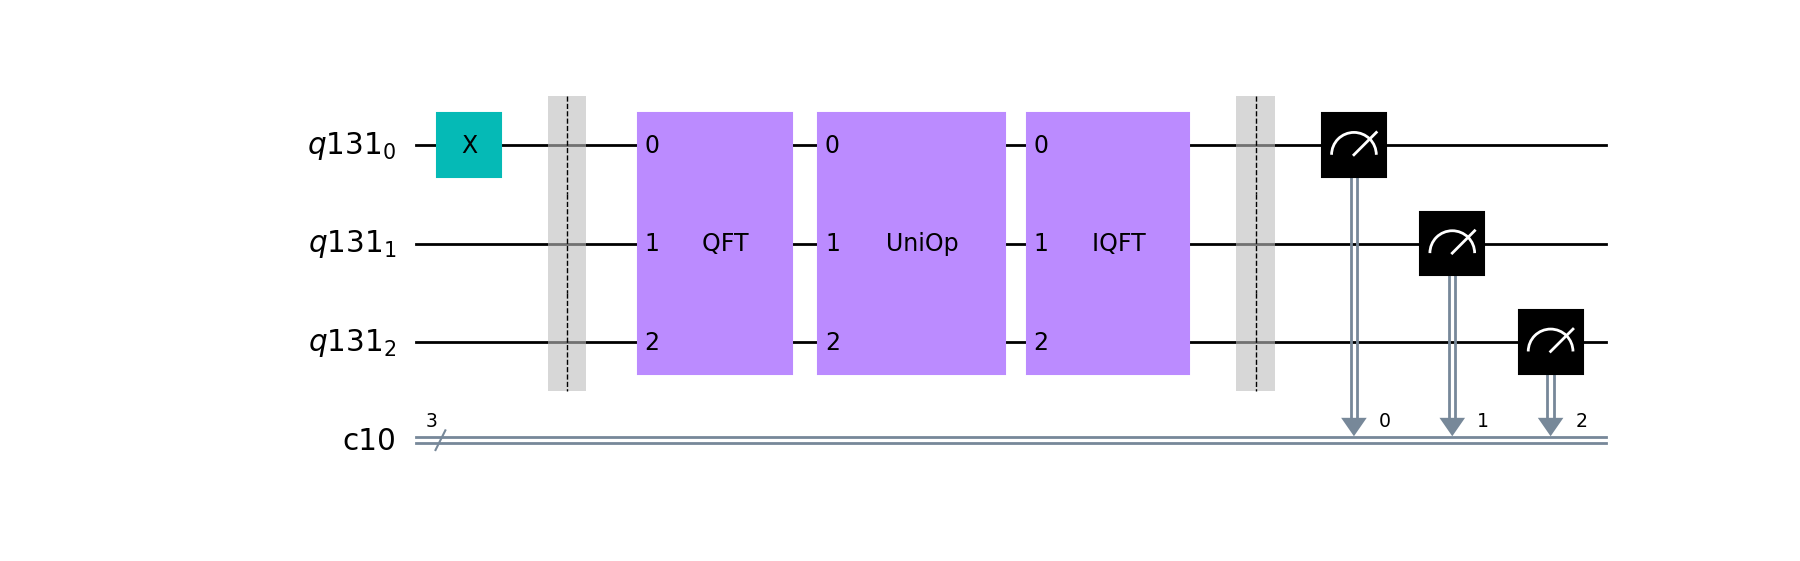
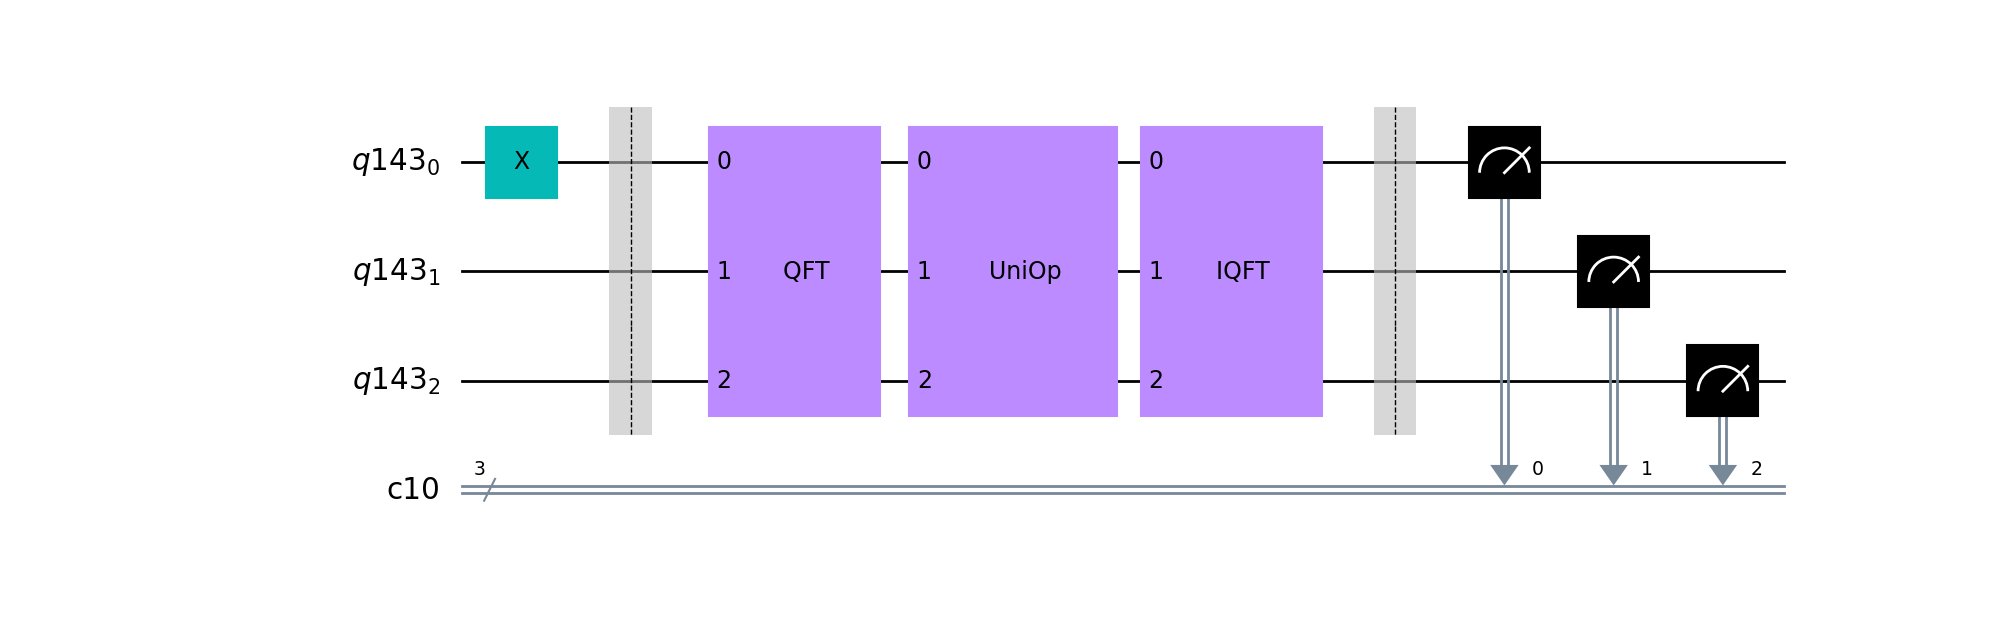
Update

diff --git a/Coding/Qiskit/ContQuantumWalk/runWalk.py b/Coding/Qiskit/ContQuantumWalk/runWalk.py
@@ -31,7 +31,8 @@ from qiskit.providers.aer.noise import NoiseModel
 from qiskit.visualization import( plot_histogram,
                         plot_state_city,
                         plot_gate_map, 
-                        plot_circuit_layout)
+                        plot_circuit_layout,
+                        circuit_drawer)
 from qiskit.circuit.library import QFT
 from math import (log,ceil)
 from scipy.fft import fft, ifft
@@ -114,6 +115,20 @@ def contCirc(N,diagUniOp,backend,method,t):
         circ=transpile(circ)
     return circ
 
+def contCirc2(N,diagUniOp,backend,method,t):
+    qreg = QuantumRegister(N)
+    creg = ClassicalRegister(N)
+    circ = QuantumCircuit(qreg,creg)
+    if t == 0: 
+        circ.x(qreg[0])
+        circ.measure(qreg,creg)
+        circ = transpile(circ)
+        return circ 
+    else:
+        circ.append(diagUniOp,range(N))
+        circ=transpile(circ)
+    return circ
+
 def multDiagUniOp(N,NCirc,gamma,adjacency,time,backend,method):
     unitaryCircList = []
     for t in time:
@@ -137,6 +152,19 @@ def multContCirc(N,unitaryList,time,backend,methods):
         circList.append(circ)
     return circList
 
+def multContCirc2(N,unitaryList,time,backend,methods):
+    circList = []
+    circListAux = []
+    qreg = QuantumRegister(N)
+    qsub = QuantumRegister(1)
+    creg = ClassicalRegister(N)
+    for t,diagU0 in zip(time,unitaryList):
+        circ = QuantumCircuit(qreg,creg)
+        circ =  contCirc2(N,diagU0,backend,method,t)
+        circ = transpile(circ,optimization_level=3,backend=backend, layout_method=method)
+        circList.append(circ)
+    return circList
+
 def drawCirc(N,diagU,time,style):
     qreg = QuantumRegister(N)
     creg = ClassicalRegister(N)
@@ -151,12 +179,26 @@ def drawCirc(N,diagU,time,style):
     fig = circ.draw(output='mpl',style=style)
     return fig 
 
+def drawCirc2(N,diagU,time,style):
+    qreg = QuantumRegister(N)
+    creg = ClassicalRegister(N)
+    circ = QuantumCircuit(qreg,creg)
+    circ.x(qreg[0])
+    circ.barrier()
+    circ.append(QFT(N,do_swaps=False,approximation_degree=0,inverse=False,name='    QFT    '),range(N))
+    circ.append(diagU,range(N))
+    circ.append(QFT(N,do_swaps=False,approximation_degree=0,inverse=True,name='    IQFT    '),range(N))
+    circ.barrier()
+    circ.measure(qreg,creg)
+    #fig = circ.draw(output='mpl',style=style)
+    return circ 
+
 def drawQftCirc(N,style):
     qreg = QuantumRegister(N)
     creg = ClassicalRegister(N)
     circ = QuantumCircuit(qreg,creg)
     circ = QFT(N,do_swaps=False,approximation_degree=0,inverse=False,name='    QFT    ')
-    circ = transpile(circ, basis_gates=['cx','u3','cu3'])
+    circ = transpile(circ, basis_gates=['cp','h','cx','rz'])
     fig = circ.draw(output='mpl',style=style)
     return fig 
 
@@ -164,9 +206,10 @@ def drawDiagUni(N,diagU0,backend,method,style):
     qreg = QuantumRegister(N)
     creg = ClassicalRegister(N)
     circ = QuantumCircuit(qreg,name='    UniOp    ')
+    print(diagU0)
     circ.diagonal(diagU0,qreg) 
     #circ = transpile(circ,backend=backend,optimization_level=1)#,backend=backend,layout_method=method)#
-    circ = transpile(circ,basis_gates=['u3','cx'])
+    circ = transpile(circ,basis_gates=['cp','h','cx','rz'])
     #circ.decompose()
     fig = circ.draw(output='mpl',style=style)
     return fig
@@ -194,6 +237,40 @@ def saveContWalkFig2(N,steps,fig, filePath, defaultFileName):
     plt.clf()
     return specificFileName
 
+def countTimeGates(circList):
+    gateCountList = []
+    for circ in circList:
+        gateCount = circ.count_ops()
+        gateCountList.append(gateCount)
+        gateCount = 0
+    gateCountList.pop(0)
+    return gateCountList
+
+def plotCountTimeGates(gateCountList):
+    cxCount = []
+    rzCount = []
+    xCount = []
+    cpCount = []
+    for dictionary in gateCountList:
+        for gate,count in dictionary.items():
+            if gate == 'cx':
+                cxCount.append(count)
+            if gate == 'rz':
+                rzCount.append(count)
+            if gate == 'x':
+                xCount.append(count)
+            if gate == 'cp':
+                cpCount.append(count)
+
+    timeGateCount2 = np.arange(0,98,1).tolist()
+    plt.plot(timeGateCount2,cxCount,label='CNot number',color='r')
+    plt.plot(timeGateCount2,rzCount,label='RZ number',color='b')
+    plt.yticks(np.arange(0,11,1))
+    plt.xlabel("Time")
+    plt.ylabel("Number of gates")
+    plt.legend()
+   
+
 filePath = 'ContQuantumWalk/'
 circFilePath = 'ContQuantumWalk/Circuits/'
 circDiagFilePath = 'ContQuantumWalk/Circuits/'
@@ -202,7 +279,7 @@ defaultFileName = "ContQW_"
 circDefaultFileName = "circContQW_"
 circQftDefaultFileName = "circQft_"
 circDiagDefaultFileName = "circDiag_"
-style = {'figwidth':18,'fontsize':17,'subfontsize':14}
+style = {'figwidth':20,'fontsize':17,'subfontsize':14,'compress':True}
 styleQft = {'figwidth':15,'fontsize':17,'subfontsize':14}#, 'compress':True}
 styleDiag = {'figwidth':15,'fontsize':17,'subfontsize':14 }
 
@@ -270,19 +347,34 @@ counts = [{'000': 180, '001': 2176, '010': 95, '011': 155, '100': 65, '101': 192
 #g = plt.figure(1)
 #g.show()
 
+#distFig = plotMultipleQiskitIbmSim2(NCirc,multipleCircs,counts,time,shots,True,backend2)
+#saveContWalkFig2(NCirc,time,distFig,filePath,defaultFileName)
+
+#gateCountFileName = 'gateCount_N3'
+#timeGateCount = np.arange(0,99,1).tolist()
+#unitaryCircListGateCount = multDiagUniOp(N,NCirc,gamma,A,timeGateCount,backend,method)
+#multipleCircsGateCount = multContCirc(NCirc,unitaryCircListGateCount,timeGateCount,backend,method)
+#gateCountList = countTimeGates(multipleCircsGateCount)
+#plotCountTimeGates(gateCountList)
+#plt.savefig(r'/home/jaime/Programming/Jaime-Santos-Dissertation/Results/Qiskit/'+filePath+gateCountFileName)
+#   
 circFigN = 3
 circFigSteps = [1]
-circFig = drawCirc(NCirc,UCirc,t,style)
+circFig = drawCirc(NCirc,UCirc,1,style)
+#plt.show()
 saveContWalkFig(circFigN,circFigSteps,circFig,circFilePath,circDefaultFileName)
-
+#
 circQftN = 3
 circQftSteps = [1]
 circQftFig = drawQftCirc(circQftN,styleQft)
 saveContWalkFig(circQftN,circQftSteps,circQftFig,circQftFilePath,circQftDefaultFileName)
-
+##
 circDiagN = 3
-circDiagSteps = [1]
-circDiagFig = drawDiagUni(circDiagN,diagU0,backend,method,styleDiag)
+circDiagSteps = [3]
+circDiagGamma= 1/(2*np.sqrt(2))
+circU0 = unitary_ctqw(circDiagGamma, N, A, [],3)
+circDiagU0 = np.diag(circU0).tolist()
+circDiagFig = drawDiagUni(circDiagN,circDiagU0,backend,method,styleDiag)
 saveContWalkFig(circDiagN,circDiagSteps,circDiagFig,circDiagFilePath,circDiagDefaultFileName)
 
 #initCond = '0'
@@ -294,8 +386,7 @@ saveContWalkFig(circDiagN,circDiagSteps,circDiagFig,circDiagFilePath,circDiagDef
 #counts2 = job2.result().get_counts()
 #print(counts2)
 #plotMultipleQiskitIbm(NCirc,counts2,time,shots,True)
-#distFig = plotMultipleQiskitIbmSim2(NCirc,multipleCircs,counts,time,shots,True,backend2)
-#saveContWalkFig2(NCirc,time,distFig,filePath,defaultFileName)
+
 #x = np.arange(0,N,1)
 #plt.plot(x,probvec) #plot the lines
 #plt.title('Caminhada Circulante')

diff --git a/Coding/Qiskit/GroverQiskit/runSearch.py b/Coding/Qiskit/GroverQiskit/runSearch.py
@@ -7,8 +7,8 @@ from IBMTools import(
         printDict,
         plotMultipleQiskit)
 import numpy as np
-import matplotlib
-matplotlib.use('TkAgg')
+import matplotlib as mpl
+mpl.use('TkAgg')
 import matplotlib.pyplot as plt
 from qiskit import( ClassicalRegister,
         QuantumRegister,
@@ -19,8 +19,8 @@ from qiskit import( ClassicalRegister,
         )
 from qiskit.visualization import( plot_histogram,
         plot_state_city)
-plt.rcParams['figure.figsize'] = 11,8
-matplotlib.rcParams.update({'font.size' : 15})
+mpl.rcParams['figure.figsize'] = 11,8
+mpl.rcParams.update({'font.size' : 15})
 
 def markedListGrover(markedList,N):
     oracleList = np.ones(2**N)
@@ -36,14 +36,14 @@ def getOracle(markedList,N):
 
 def oracleGrover(markedList,N):
     qreg = QuantumRegister(N)
-    qc = QuantumCircuit(qreg,name='Oracle')
+    qc = QuantumCircuit(qreg,name='    Oracle    ')
     qc.diagonal(markedList,qreg)
     qc=transpile(qc,optimization_level=3)
     return qc
 
 def diffusionGrover(N):
     qreg = QuantumRegister(N)
-    difCirc = QuantumCircuit(qreg,name='Diffusion')
+    difCirc = QuantumCircuit(qreg,name='     Diff    ')
     difCirc.h(qreg)
     aux = markedListGrover([0],N)
     qcAux = oracleGrover(aux,N)
@@ -67,6 +67,42 @@ def grover(N,steps,marked):
     qc = transpile(qc,optimization_level=1)
     return qc
 
+def drawCirc(N,steps,marked,style):
+    qc = QuantumCircuit(N,N)
+    qcOracle = oracleGrover(markedListGrover(marked,N),N)
+    qcDiffusion = diffusionGrover(N)
+    qc.h(range(N))
+    qc.barrier()
+    for i in range(steps):
+        qc.append(qcOracle,range(N))
+        qc.append(qcDiffusion,range(N))
+        qc.barrier()
+    qc.measure(range(N),range(N))
+    qc = transpile(qc)
+    fig = qc.draw(output='mpl',style=style)
+    return qc
+
+def drawOracle(N,marked,style):
+    qreg = QuantumRegister(N)
+    qc = QuantumCircuit(qreg,name='    Oracle    ')
+    qc.diagonal(markedListGrover(marked,N),qreg)
+    qc=transpile(qc,basis_gates=['cx','rz','ccx','x','h'])
+    fig = qc.draw(output='mpl',style=style)
+    return fig 
+
+def drawDiffusion(N,style):
+    qreg = QuantumRegister(N)
+    difCirc = QuantumCircuit(qreg,name='     Diff    ')
+    difCirc.h(qreg)
+    aux = markedListGrover([0],N)
+    qcAux = oracleGrover(aux,N)
+    difCirc.append(qcAux,range(N))
+    difCirc.h(qreg)
+    difCirc=transpile(difCirc,basis_gates=['cx','rz','ccx','x','h'])
+    fig = difCirc.draw(output='mpl',style=style)
+    return fig
+
+
 def saveGroverSearchFig(N,steps,markedVertex,fig, filePath, defaultFileName):
     specificFileName = ""
     i=0
@@ -79,10 +115,11 @@ def saveGroverSearchFig(N,steps,markedVertex,fig, filePath, defaultFileName):
             break
         specificFileName+="_"
     savefig(fig, filePath,defaultFileName+specificFileName)
+    plt.clf()
     return specificFileName
 
 def runMultipleSearchComplete(N,steps,markedVertex):
-     "Creates several instances of the coined quantum walk search circuit."
+     "Creates several instances of the grover search circuit."
      circList = []
      circListAux = []
      for n in N:
@@ -99,12 +136,34 @@ def runMultipleSearchComplete(N,steps,markedVertex):
 
 filePath = 'GroverQiskit/'
 defaultFileName = "GroverQiskitSearch_"
+circFilePath = 'GroverQiskit/Circuits/'
+defaultCircFileName = "GroverQiskitCirc_"
+defaultCircOracleFileName = "GroverQiskitCircOracle_"
+defaultCircDiffFileName = "GroverQiskitCircDiff_"
+
+
+style = {'figwidth':20,'fontsize':17,'subfontsize':14}#,'compress':True}
 
 N = [3]
 markedList = [1,2] 
 steps = [0,1,2]
 shots = 3000
 
-multipleGrover = runMultipleSearchComplete(N,steps,markedList)
-fig = plotMultipleQiskit(N,multipleGrover,steps,shots,True)
-saveGroverSearchFig(N,steps,markedList,fig,filePath,defaultFileName)
+singleN = 3
+singleSteps = 3
+
+circN = [3]
+circSteps = [3]
+circMarked = [0]
+
+drawCircFig = drawCirc(singleN,singleSteps,circMarked,style)
+saveGroverSearchFig(circN,circSteps,circMarked,drawCircFig, circFilePath, defaultCircFileName)
+
+drawCircOracleFig = drawOracle(singleN,circMarked,style)
+saveGroverSearchFig(circN,circSteps,circMarked,drawCircOracleFig, circFilePath, defaultCircOracleFileName)
+
+drawCircDiffFig = drawDiffusion(singleN,style)
+saveGroverSearchFig(circN,circSteps,circMarked,drawCircDiffFig, circFilePath, defaultCircDiffFileName)
+#multipleGrover = runMultipleSearchComplete(N,steps,markedList)
+#fig = plotMultipleQiskit(N,multipleGrover,steps,shots,True)
+#saveGroverSearchFig(N,steps,markedList,fig,filePath,defaultFileName)
